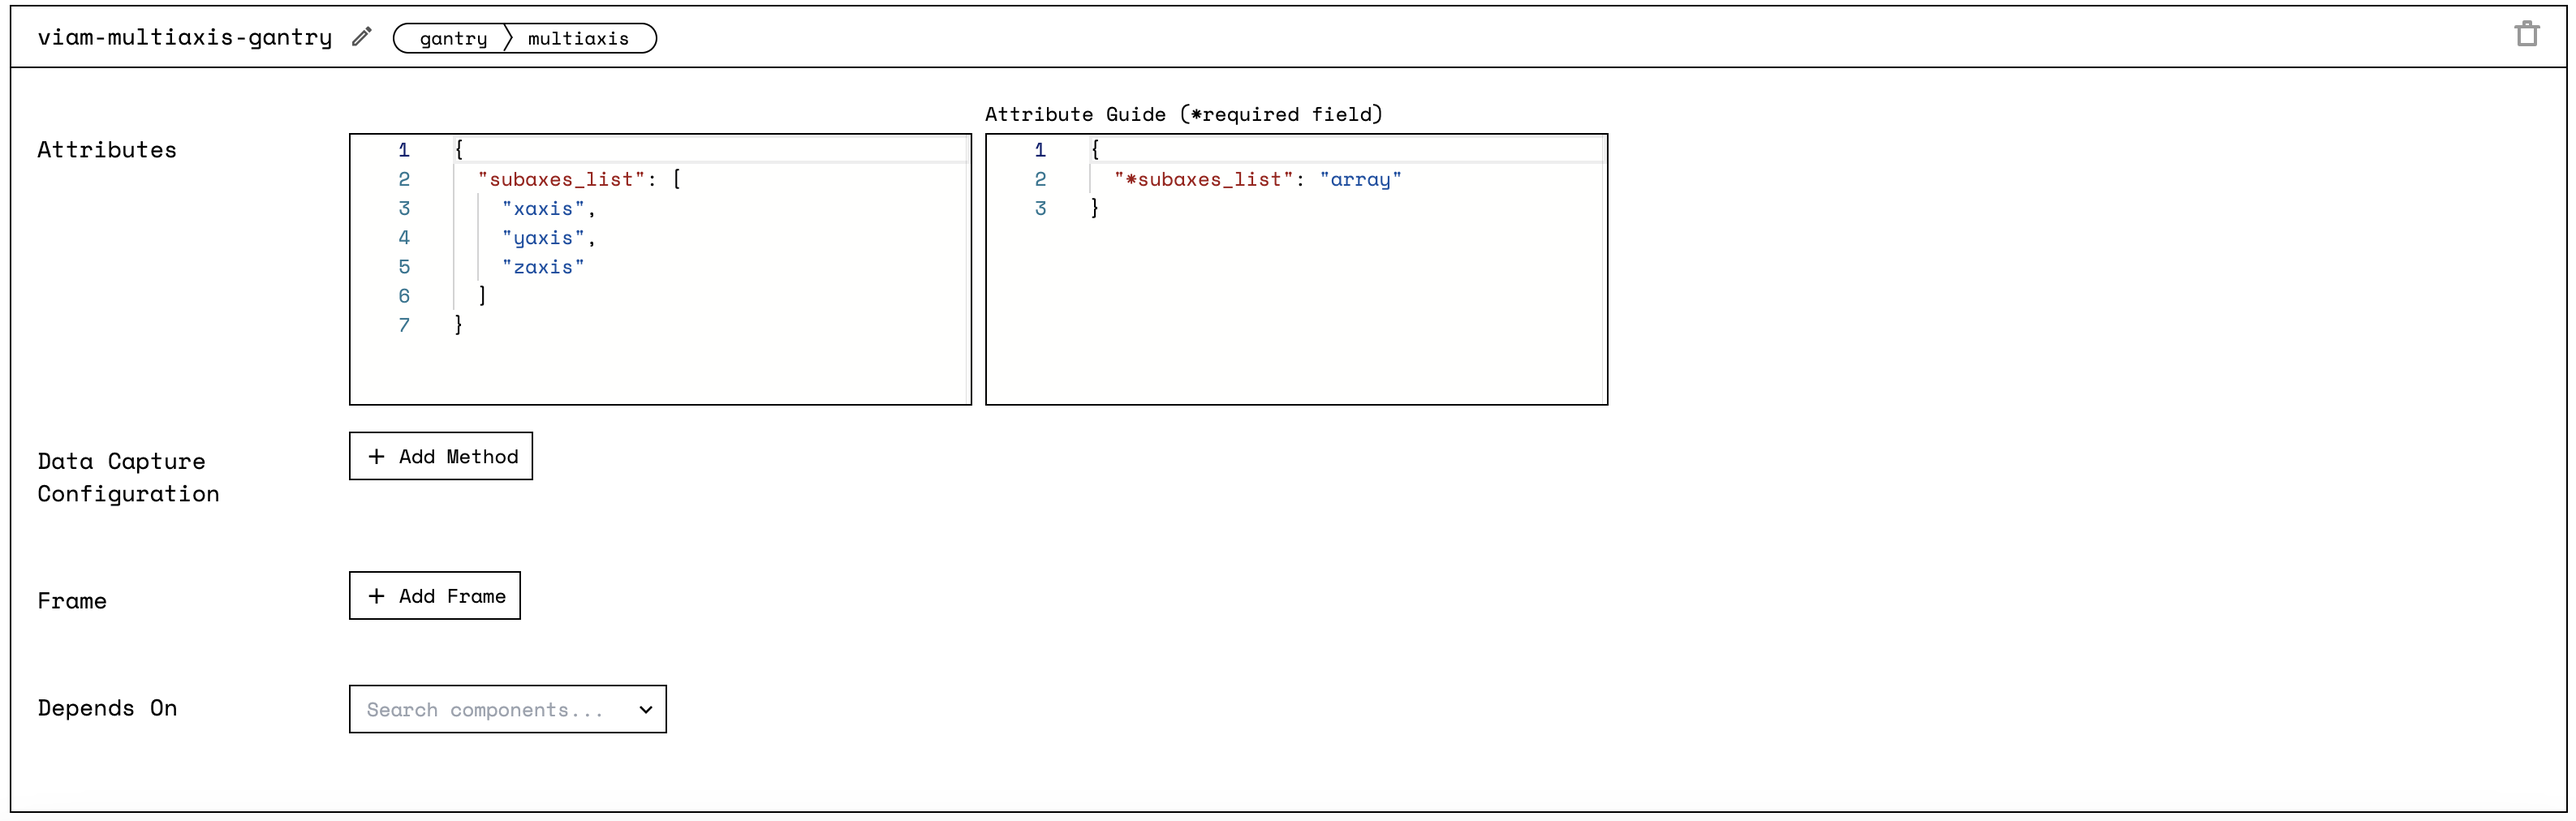
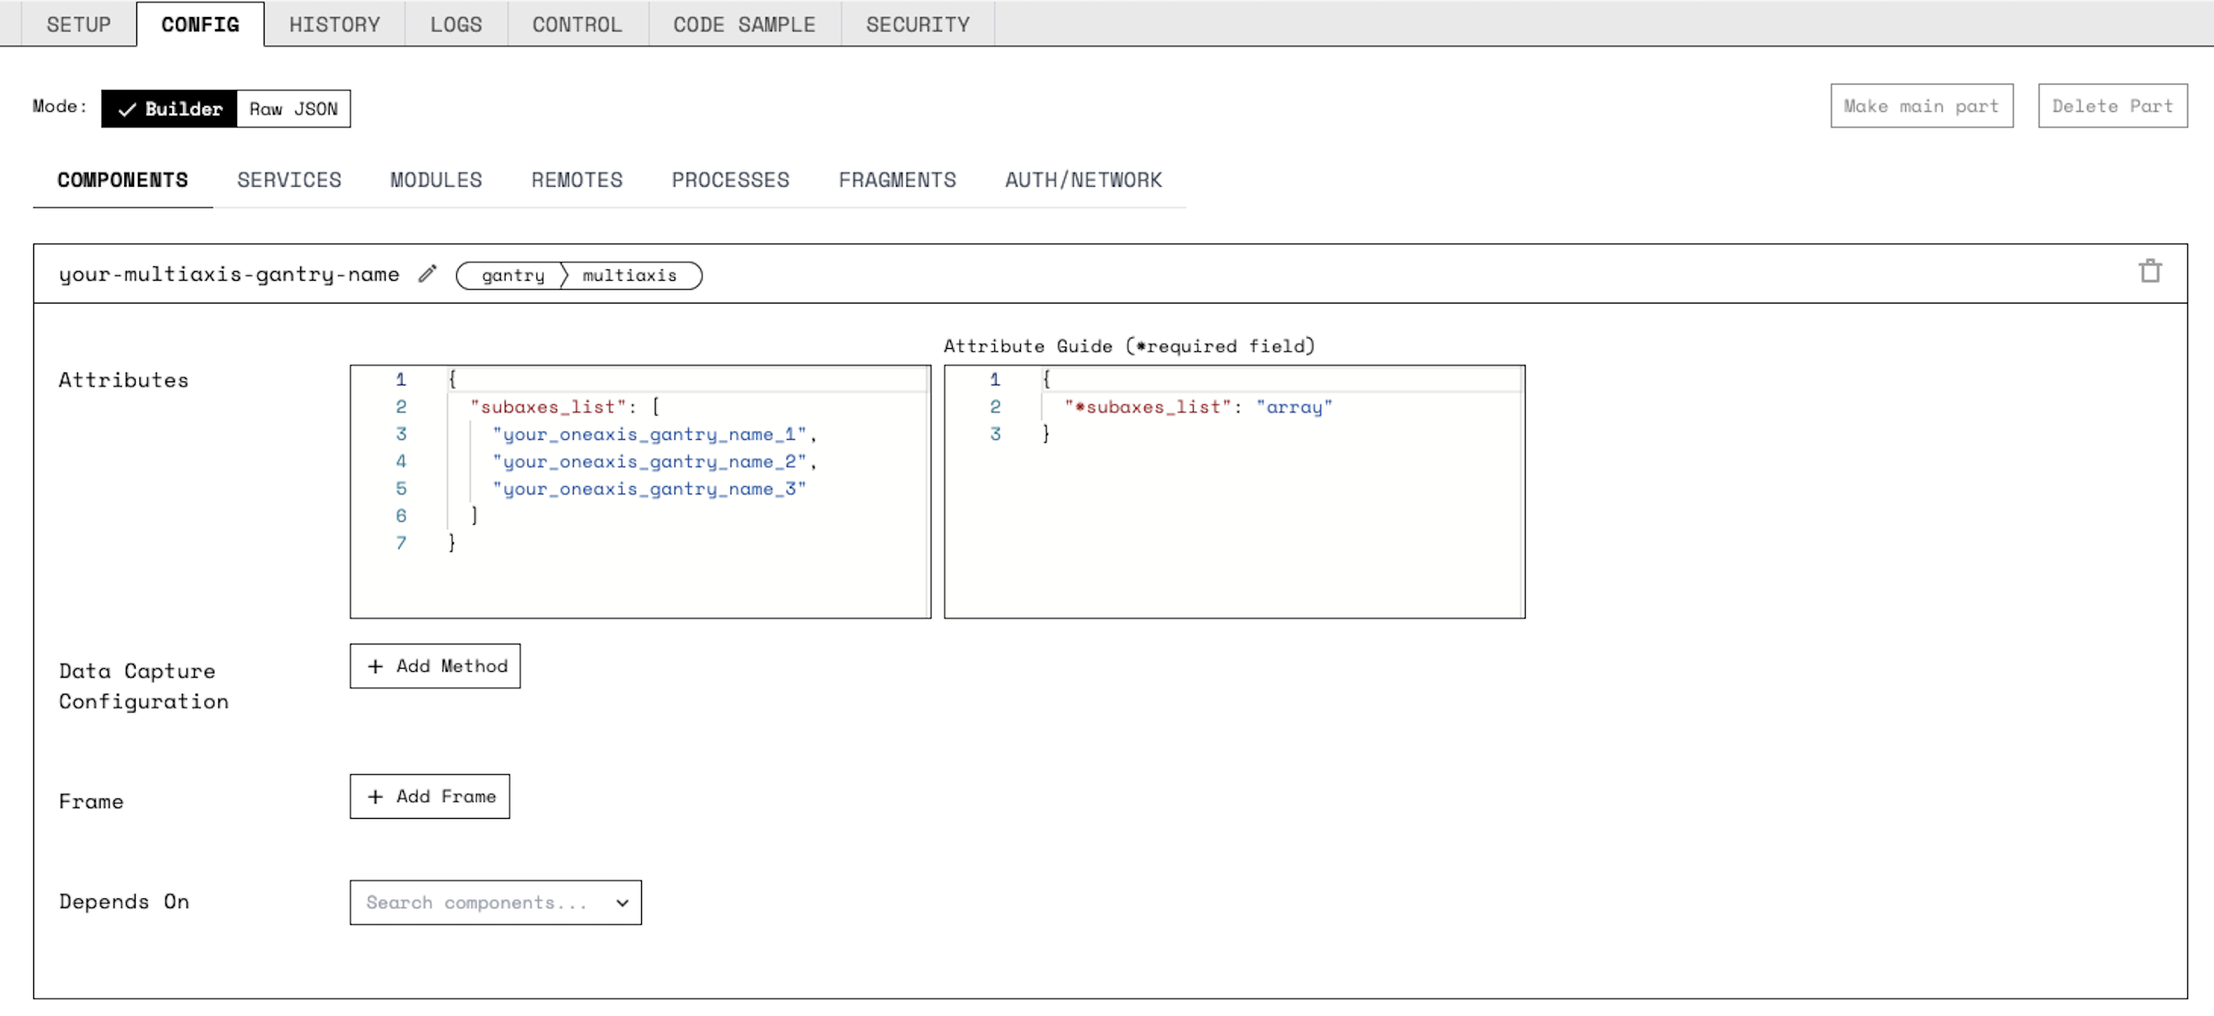
change ui and edit app pointers

diff --git a/docs/components/gantry.md b/docs/components/gantry.md
@@ -33,7 +33,6 @@ Most robots with a gantry need at least the following hardware:
 ### Configuration
 
 Configuring this component on your robot with a gantry enables you to get and change the position of the linear rail axes.
-You can easily configure your component, as pictured below, on the [Viam App](https://app.viam.com/).
 
 #### One-Axis
 
@@ -42,7 +41,7 @@ This is how you configure a one-axis gantry:
 {{< tabs name="Example Gantry Config One-Axis" >}}
 {{< tab name="Config Builder" >}}
 
-<img src="../img/gantry/gantry-config-ui-oneaxis.png" alt="Picture of what an example configuration for a one-axis gantry component looks like in the Viam App config builder." width="800"/>
+<img src="../img/gantry/gantry-config-ui-oneaxis.png" alt="Picture of what an example configuration for a one-axis gantry component looks like in the Viam App config builder." style="width:100%"/>
 
 {{< /tab >}}
 {{% tab name="Raw JSON" %}}
@@ -51,19 +50,26 @@ This is how you configure a one-axis gantry:
 {
   "components": [
     {
-      "name": <your_oneaxis_gantry_name>,
+      "depends_on": [],
+      "name": <your_gantry_name>,
       "type": "gantry",
       "model": "oneaxis",
       "attributes": {
+        "board": <your_board_name>,
         "motor": <your_motor_name>,
+        "gantry_rpm": 500,
+        "limit_pins": [
+          <your_lim_1>,
+          <your_lim_2>
+        ],
+        "limit_pin_enabled_high": false,
         "length_mm": 800,
         "axis": {
+          "Z": 0,
           "X": 0,
-          "Y": 0,
-          "Z": 0
+          "Y": 0
         }
-      },
-      "depends_on": []
+      }
     }
   ]
 }
@@ -173,7 +179,7 @@ This is how you configure a multi-axis gantry:
 {{< tabs name="Example Gantry Config Multi-Axis" >}}
 {{< tab name="Config Builder" >}}
 
-<img src="../img/gantry/gantry-config-ui-multiaxis.png" alt="TODO" width="800"/>
+<img src="../img/gantry/gantry-config-ui-multiaxis.png" alt="Picture of what an example configuration for a one-axis gantry component looks like in the Viam App config builder." style="width:100%"/>
 
 {{< /tab >}}
 {{% tab name="Raw JSON" %}}
@@ -195,6 +201,157 @@ This is how you configure a multi-axis gantry:
       "depends_on": []
     }
   ]
+}
+```
+
+{{< /tab >}}
+{{% tab name="Full JSON Example" %}}
+
+```json-viam
+{
+    "components": [
+        {
+            "name": "local",
+            "type": "board",
+            "model": "pi"
+        },
+        {
+            "name": "xmotor",
+            "type": "motor",
+            "model": "gpiostepper",
+            "attributes": {
+                "board": "local",
+                "pins": {
+                    "dir": "dirx",
+                    "pwm": "pwmx",
+                    "step": "stepx"
+                },
+                "stepperDelay": 50,
+                "ticksPerRotation": 200
+            }
+        },
+        {
+            "name": "ymotor",
+            "type": "motor",
+            "model": "gpiostepper",
+            "attributes": {
+                "board": "local",
+                "pins": {
+                    "dir": "diry",
+                    "pwm": "pwmy",
+                    "step": "stepy"
+                },
+                "stepperDelay": 50,
+                "ticksPerRotation": 200
+            }
+        },
+        {
+            "name": "zmotor",
+            "type": "motor",
+            "model": "gpiostepper",
+            "attributes": {
+                "board": "local",
+                "pins": {
+                    "dir": "dirz",
+                    "pwm": "pwmz",
+                    "step": "stepz"
+                },
+                "stepperDelay": 50,
+                "ticksPerRotation": 200
+            }
+        },
+        {
+            "name": "xaxis",
+            "type": "gantry",
+            "model": "oneaxis",
+            "attributes": {
+                "length_mm": 1000,
+                "board": "local",
+                "limit_pin_enabled_high": false,
+                "limit_pins": [
+                    "xlim1",
+                    "xlim2"
+                ],
+                "motor": "xmotor",
+                "gantry_rpm": 500,
+                "axis": {
+                    "x": 1,
+                    "y": 0,
+                    "z": 0
+                }
+            }
+        },
+        {
+            "name": "yaxis",
+            "type": "gantry",
+            "model": "oneaxis",
+            "attributes": {
+                "length_mm": 1000,
+                "board": "local",
+                "limit_pin_enabled_high": false,
+                "limit_pins": [
+                    "ylim1",
+                    "ylim2"
+                ],
+                "motor": "ymotor",
+                "gantry_rpm": 500,
+                "axis": {
+                    "x": 0,
+                    "y": 1,
+                    "z": 0
+                }
+            }
+        },
+        {
+            "name": "zaxis",
+            "type": "gantry",
+            "model": "oneaxis",
+            "attributes": {
+                "length_mm": 1000,
+                "board": "local",
+                "limit_pin_enabled_high": false,
+                "limit_pins": [
+                    "zlim1",
+                    "zlim2"
+                ],
+                "motor": "zmotor",
+                "gantry_rpm": 500,
+                "axis": {
+                    "x": 0,
+                    "y": 0,
+                    "z": 1
+                }
+            },
+            "frame": {
+                "parent": "world",
+                "orientation": {
+                    "type": "euler_angles",
+                    "value": {
+                        "roll": 0,
+                        "pitch": 40,
+                        "yaw": 0
+                    }
+                },
+                "translation": {
+                    "x": 0,
+                    "y": 3,
+                    "z": 0
+                }
+            }
+        },
+        {
+            "name": "test",
+            "type": "gantry",
+            "model": "multiaxis",
+            "attributes": {
+                "subaxes_list": [
+                    "xaxis",
+                    "yaxis",
+                    "zaxis"
+                ]
+            }
+        }
+    ]
 }
 ```
 
@@ -275,11 +432,11 @@ func main() {
   // Connect to your robot. 
   robot, err := client.New(
       context.Background(),
-      "[ADD YOUR ROBOT ADDRESS HERE. YOU CAN FIND THIS ON THE CONNECT TAB OF THE VIAM APP]",
+      "[ADD YOUR ROBOT ADDRESS HERE. YOU CAN FIND THIS ON THE SECURITY TAB OF THE VIAM APP]",
       logger,
       client.WithDialOptions(rpc.WithCredentials(rpc.Credentials{
           Type:    utils.CredentialsTypeRobotLocationSecret,
-          Payload: "[PLEASE ADD YOUR SECRET HERE. YOU CAN FIND THIS ON THE CONNECT TAB OF THE VIAM APP]",
+          Payload: "[PLEASE ADD YOUR SECRET HERE. YOU CAN FIND THIS ON THE LOCATION'S PAGE IN THE VIAM APP]",
       })),
   )
 
@@ -597,6 +754,9 @@ if err != nil {
   logger.Fatalf("cannot get if gantry is moving: %v", err)
 }
 ```
+
+{{% /tab %}}
+{{< /tabs >}}
 
 ## Troubleshooting
 
